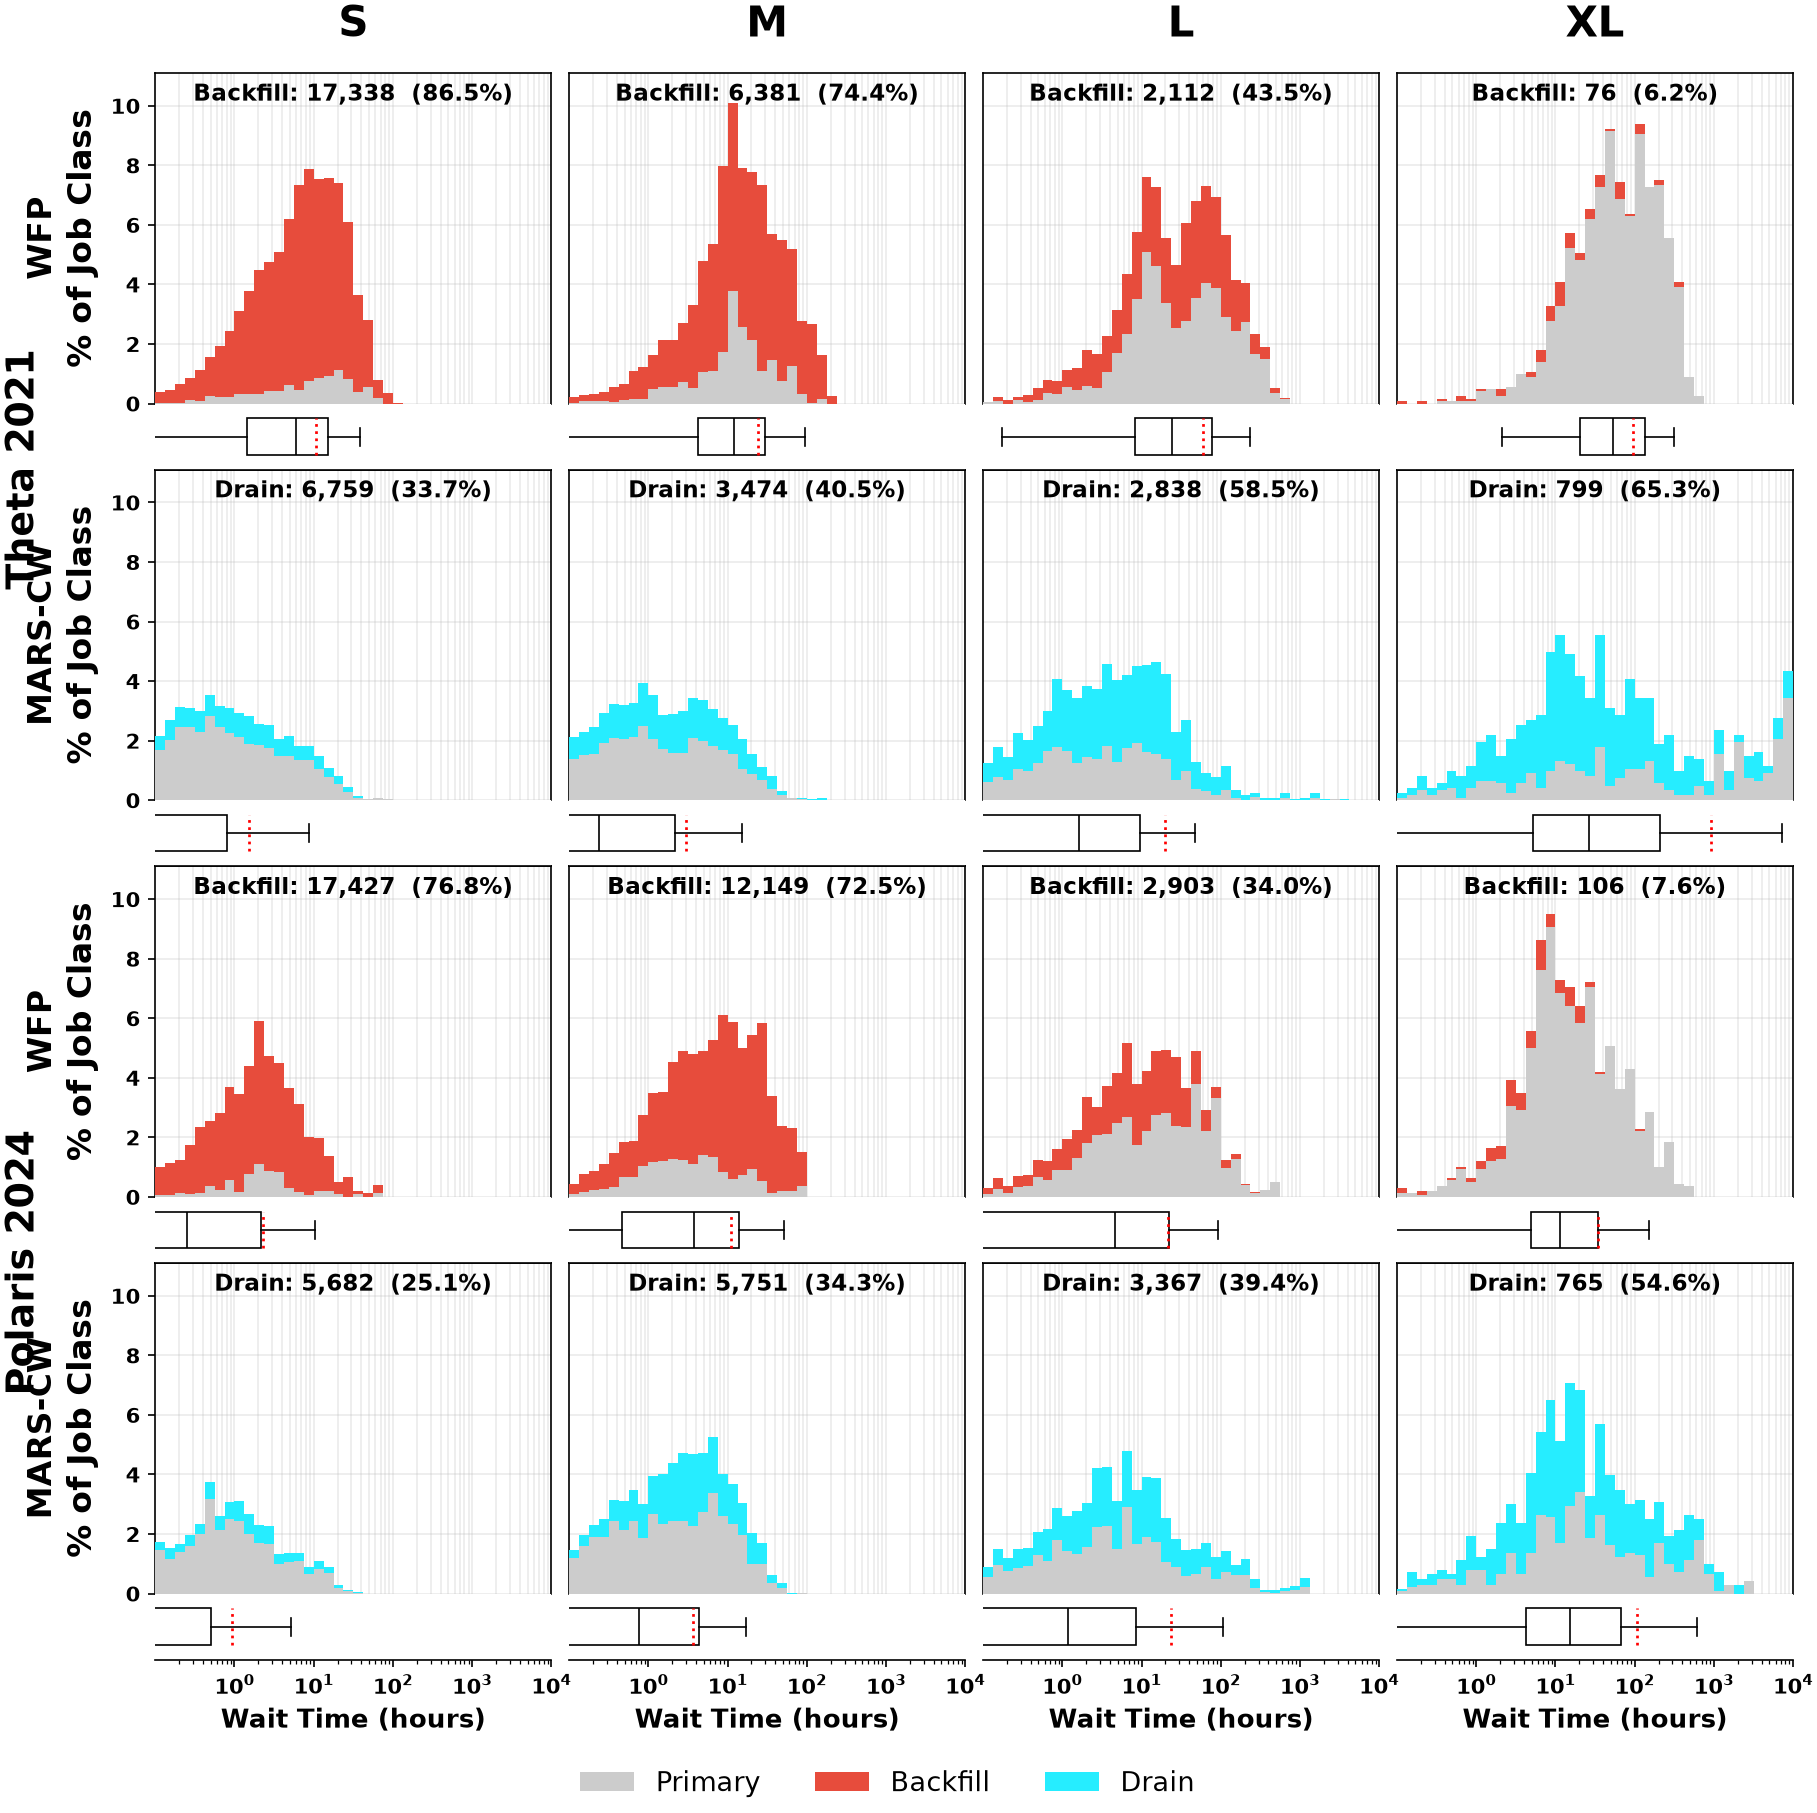
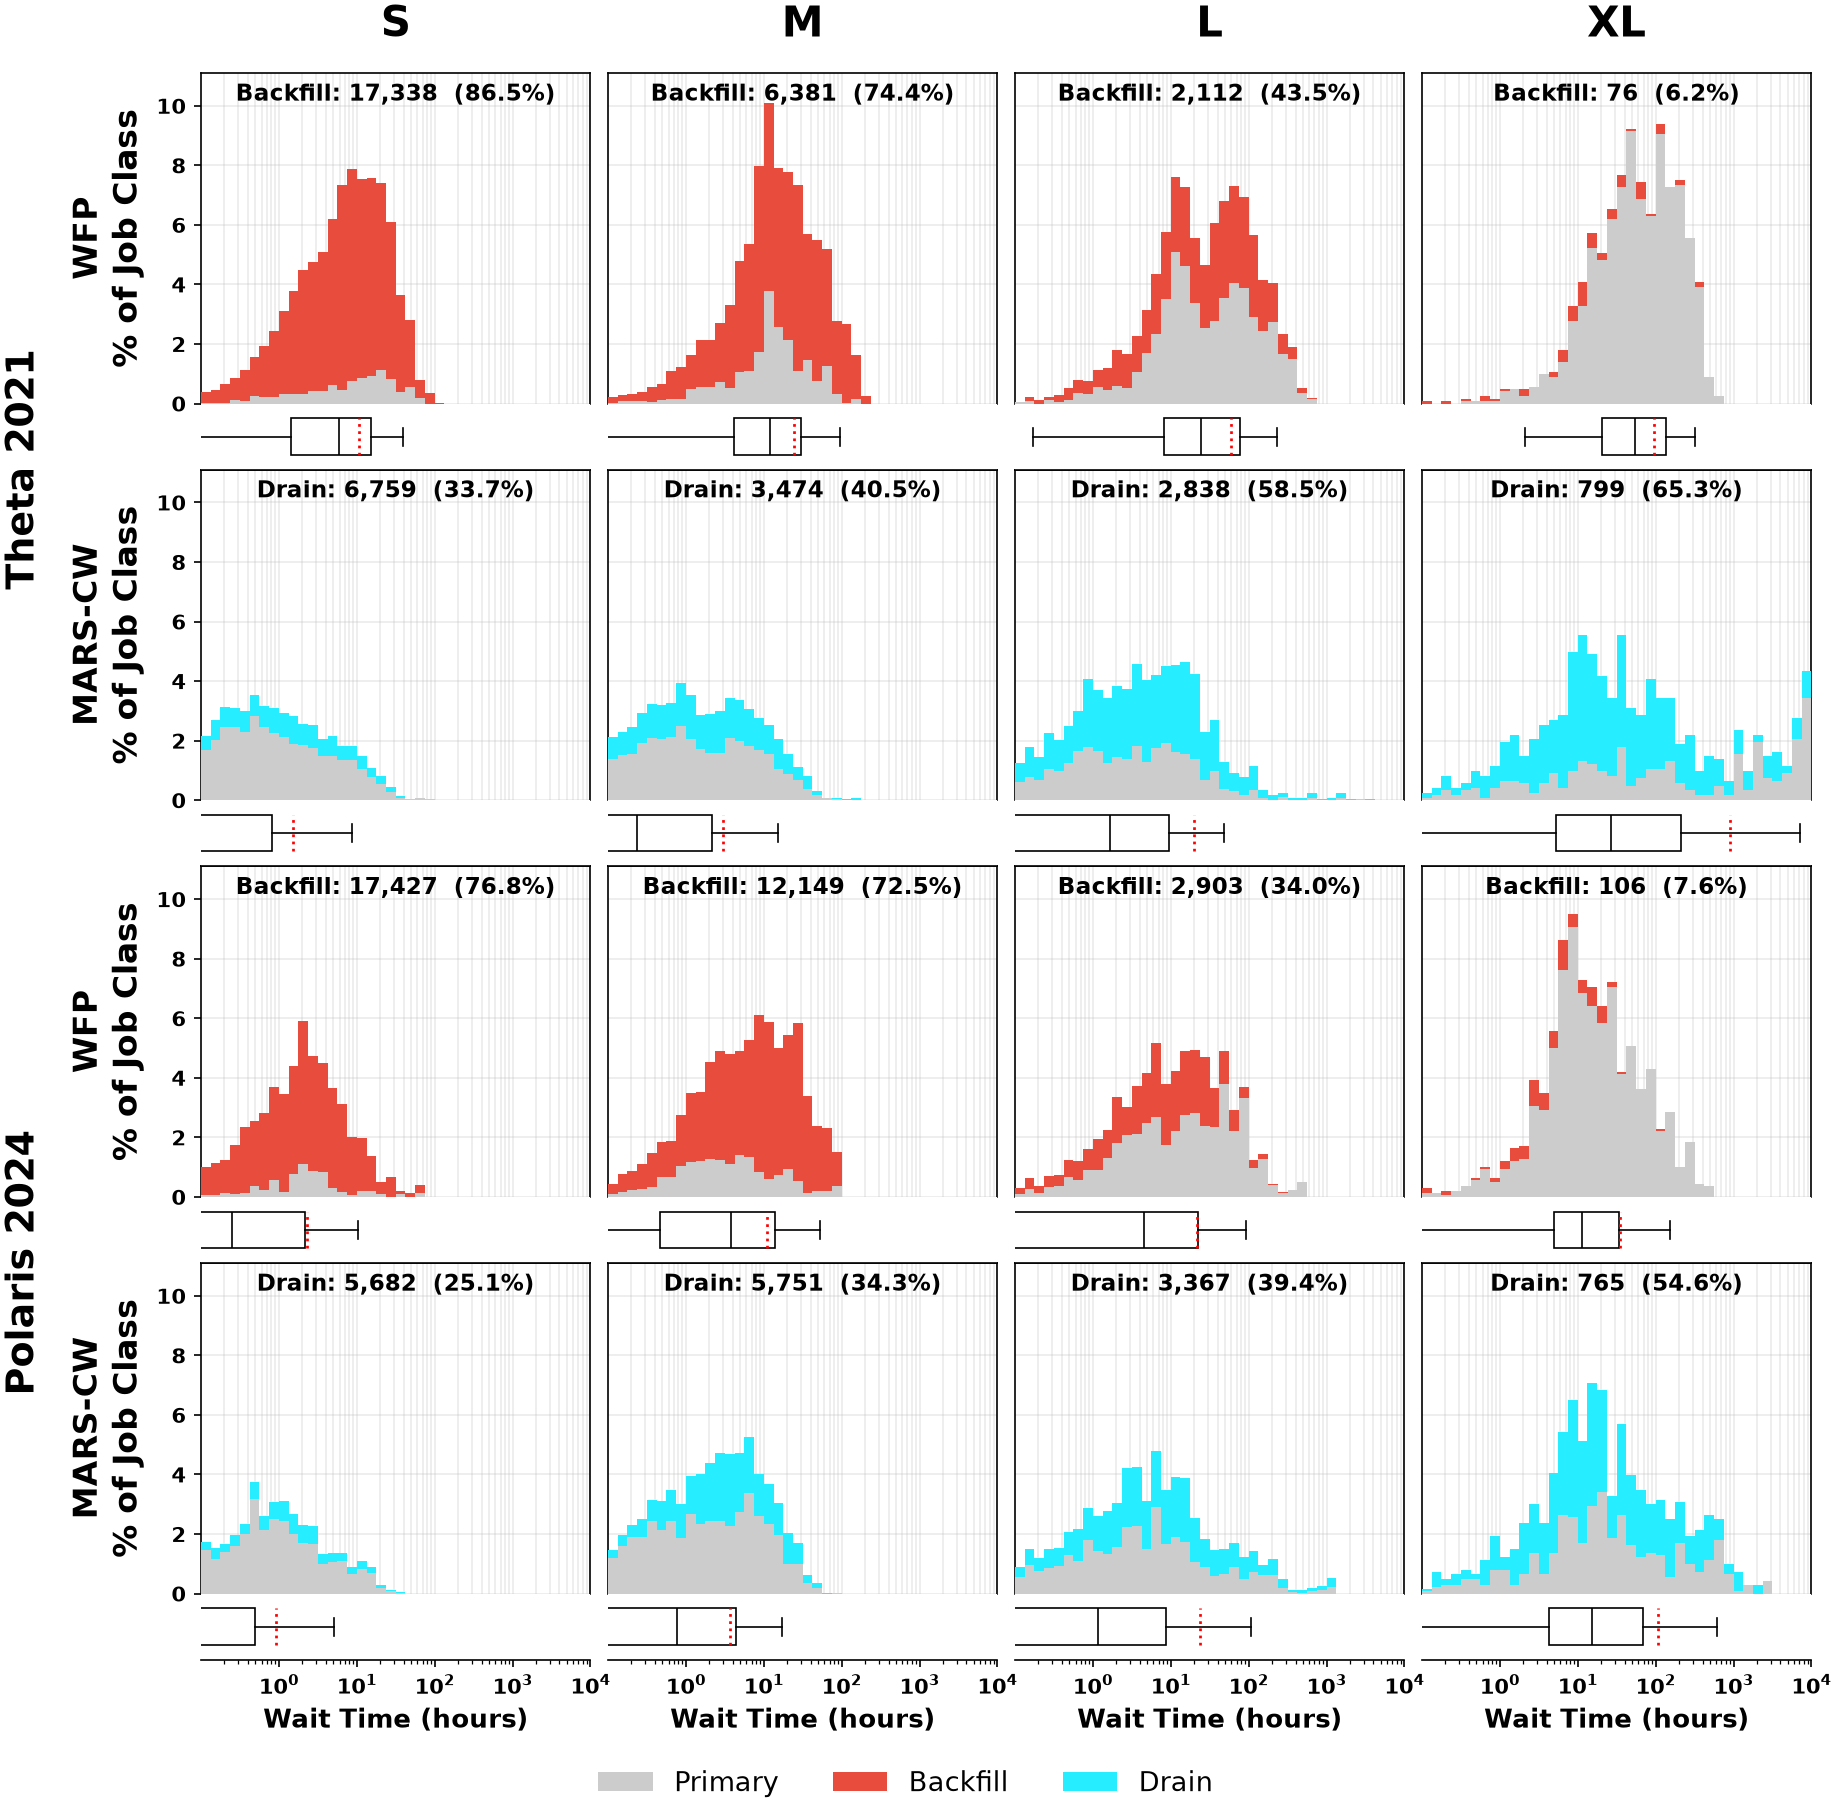
Reproduced plots

diff --git a/scripts/plot_cluster26.py b/scripts/plot_cluster26.py
@@ -845,6 +845,75 @@ def compute_relative_improvement_pct(baseline_value, value, lower_is_better):
         return (baseline_value - value) / abs(baseline_value) * 100.0
     return (value - baseline_value) / abs(baseline_value) * 100.0
 
+_WAIT_STAT_HEADERS = ["Min", "P25", "P50", "P75", "P85", "P95", "P99", "Max",
+                      "Mean", "StdDev", "GeometricMean"]
+
+def _wait_stats_row(values_minutes):
+    arr = np.array(values_minutes)
+    pos = arr[arr > 0]
+    gmean = float(np.exp(np.mean(np.log(pos)))) if pos.size > 0 else 0.0
+    return [
+        arr.min(), np.percentile(arr, 25), np.percentile(arr, 50),
+        np.percentile(arr, 75), np.percentile(arr, 85), np.percentile(arr, 95),
+        np.percentile(arr, 99), arr.max(), arr.mean(), arr.std(), gmean,
+    ]
+
+def write_wait_stat_table(out_path, rows):
+    """Wait-time distribution table (values in minutes), one row per
+    (system, driver). `rows` is a list of (system_label, tag, wait_hours_list).
+    Matches the original CLUSTER'26 table_wait.csv / table_wait_{group}.csv
+    format from the (now-deleted) exp2_plot.py."""
+    d = os.path.dirname(out_path)
+    os.makedirs(d if d else ".", exist_ok=True)
+    with open(out_path, "w", newline="") as f:
+        writer = csv.writer(f)
+        writer.writerow(["System", "Driver"] + _WAIT_STAT_HEADERS)
+        for system_label, tag, wait_hours in rows:
+            if not wait_hours:
+                writer.writerow([system_label, tag] + ["N/A"] * len(_WAIT_STAT_HEADERS))
+                continue
+            values_minutes = [w * 60.0 for w in wait_hours]
+            writer.writerow(
+                [system_label, tag] +
+                [f"{v:.4f}" for v in _wait_stats_row(values_minutes)]
+            )
+    print(f"  Saved: {out_path}")
+
+def write_wait_pct_change_table(out_path, rows, baseline_tag, compare_tag):
+    """% change in each wait-time stat for `compare_tag` vs `baseline_tag`,
+    one row per (system, job class). `rows` is a list of
+    (system_label, job_class, baseline_wait_hours, compare_wait_hours).
+
+    Positive = compare_tag is faster (lower wait) than baseline_tag, matching
+    compute_relative_improvement_pct's convention for a lower_is_better metric.
+    """
+    d = os.path.dirname(out_path)
+    os.makedirs(d if d else ".", exist_ok=True)
+    header = (["System", "Job_Class", f"N_{baseline_tag}", f"N_{compare_tag}"] +
+              [f"{h}_Change_vs_{baseline_tag}_Pct" for h in _WAIT_STAT_HEADERS])
+    with open(out_path, "w", newline="") as f:
+        writer = csv.writer(f)
+        writer.writerow(header)
+        for system_label, job_class, baseline_hours, compare_hours in rows:
+            n_base, n_cmp = len(baseline_hours), len(compare_hours)
+            if not baseline_hours or not compare_hours:
+                writer.writerow(
+                    [system_label, job_class, n_base, n_cmp] +
+                    ["N/A"] * len(_WAIT_STAT_HEADERS)
+                )
+                continue
+            base_stats = _wait_stats_row([w * 60.0 for w in baseline_hours])
+            cmp_stats  = _wait_stats_row([w * 60.0 for w in compare_hours])
+            pct = [
+                compute_relative_improvement_pct(b, c, lower_is_better=True)
+                for b, c in zip(base_stats, cmp_stats)
+            ]
+            writer.writerow(
+                [system_label, job_class, n_base, n_cmp] +
+                [f"{v:.2f}" if v is not None else "N/A" for v in pct]
+            )
+    print(f"  Saved: {out_path}")
+
 def write_overall_metrics_quartiles_table(out_path, metric_rows):
     """Write quartiles and % change vs WFP/WFP3 baseline for overall metrics."""
     headers = [
@@ -1456,7 +1525,7 @@ def _plot_backfill_drain_grid_panels(panels, out_path,
 
     fig_w = fig_width if fig_width is not None else (13.6 if not is_combined else 14.6)
     fig_h = fig_height if fig_height is not None else (n_rows * 2.45 + (0.70 if is_combined else 0.35))
-    left_margin = 0.085 if not is_combined else 0.10
+    left_margin = 0.085 if not is_combined else 0.115
     bottom_margin = 0.10 if is_combined else 0.095
     ann_fs = 9.5 * font_scale
     group_fs = 17.0 * font_scale
@@ -1590,7 +1659,7 @@ def _plot_backfill_drain_grid_panels(panels, out_path,
         for row_start, row_end, label in panel_ranges:
             y_top = hist_axes[row_start][0].get_position().y1
             y_bot = box_axes[row_end][0].get_position().y0
-            fig.text(0.028, 0.5 * (y_top + y_bot), label,
+            fig.text(0.018, 0.5 * (y_top + y_bot), label,
                      ha="center", va="center", rotation=90,
                      fontsize=system_fs, fontweight="bold")
     else:
@@ -2117,6 +2186,44 @@ def main():
         os.path.join(out_dir, "wait", "wait_quartiles_by_group_vs_wfp_baseline.csv"),
         wait_group_rows,
     )
+
+    # Overall + per-size-class wait time distribution tables (minutes),
+    # matching the original CLUSTER'26 table_wait.csv / table_wait_{group}.csv.
+    write_wait_stat_table(
+        os.path.join(out_dir, "wait", "table_wait.csv"),
+        [(label_a, tag, wait_a.get(tag, [])) for tag in tags_a] +
+        [(label_b, tag, wait_b.get(tag, [])) for tag in tags_b],
+    )
+    for grp in GROUPS:
+        write_wait_stat_table(
+            os.path.join(out_dir, "wait", f"table_wait_{grp}.csv"),
+            [(label_a, tag, wait_a_grp.get(tag, {}).get(grp, [])) for tag in tags_a] +
+            [(label_b, tag, wait_b_grp.get(tag, {}).get(grp, [])) for tag in tags_b],
+        )
+
+    # MARS-CW vs WFP wait-time % change, one row per (system, job class).
+    wfp_tag_a_wait = find_wfp_baseline_tag(tags_a)
+    wfp_tag_b_wait = find_wfp_baseline_tag(tags_b)
+    pct_change_rows = []
+    for system_label, wfp_tag, wait_all, wait_grp in (
+            (label_a, wfp_tag_a_wait, wait_a, wait_a_grp),
+            (label_b, wfp_tag_b_wait, wait_b, wait_b_grp),
+    ):
+        if not wfp_tag or "MARS-CW" not in wait_all:
+            continue
+        pct_change_rows.append(
+            (system_label, "All", wait_all.get(wfp_tag, []), wait_all.get("MARS-CW", [])))
+        for grp in GROUPS:
+            pct_change_rows.append((
+                system_label, grp,
+                wait_grp.get(wfp_tag, {}).get(grp, []),
+                wait_grp.get("MARS-CW", {}).get(grp, []),
+            ))
+    if pct_change_rows:
+        write_wait_pct_change_table(
+            os.path.join(out_dir, "wait", "table_wait_pct_change_mars_cw_vs_wfp.csv"),
+            pct_change_rows, baseline_tag="WFP", compare_tag="MARS-CW",
+        )
 
     # ── bsld/ ────────────────────────────────────────────────────────────────
     print("\nGenerating bsld/ figures...")

diff --git a/docs/CLUSTER26.md b/docs/CLUSTER26.md
@@ -26,11 +26,9 @@ All dependencies can be installed using `setup.sh`, which also builds the binary
 
 ## Unit Testing and Simulator verification
 
-To validate and test our simulator we include a comprehensive test suite under `tests` using google tests. These tests can be run using the `gtests.sh` script.
+Reviews had requested more details on the verification of CQSIM's reimplementation in C++. We provide a detailed analysis in [/validation/README.md](/validation/README.md)
 
-TODO: Add tests for simulator verification against python version.
-
-## Running Simulated Experiments
+## Running Simulated Experiments 
 
 The `setup.sh` script outputs a binary called `cqsimcpp` at the root of the project. This binary is used to run the experiments reported in our submission. It takes input a experiment configuration files that lists the various polices and the log file that needs to be used for experiments. We have provided two simple samples: `sample-1.json` and `sample-2.json` under the `experiments` directory.
 
